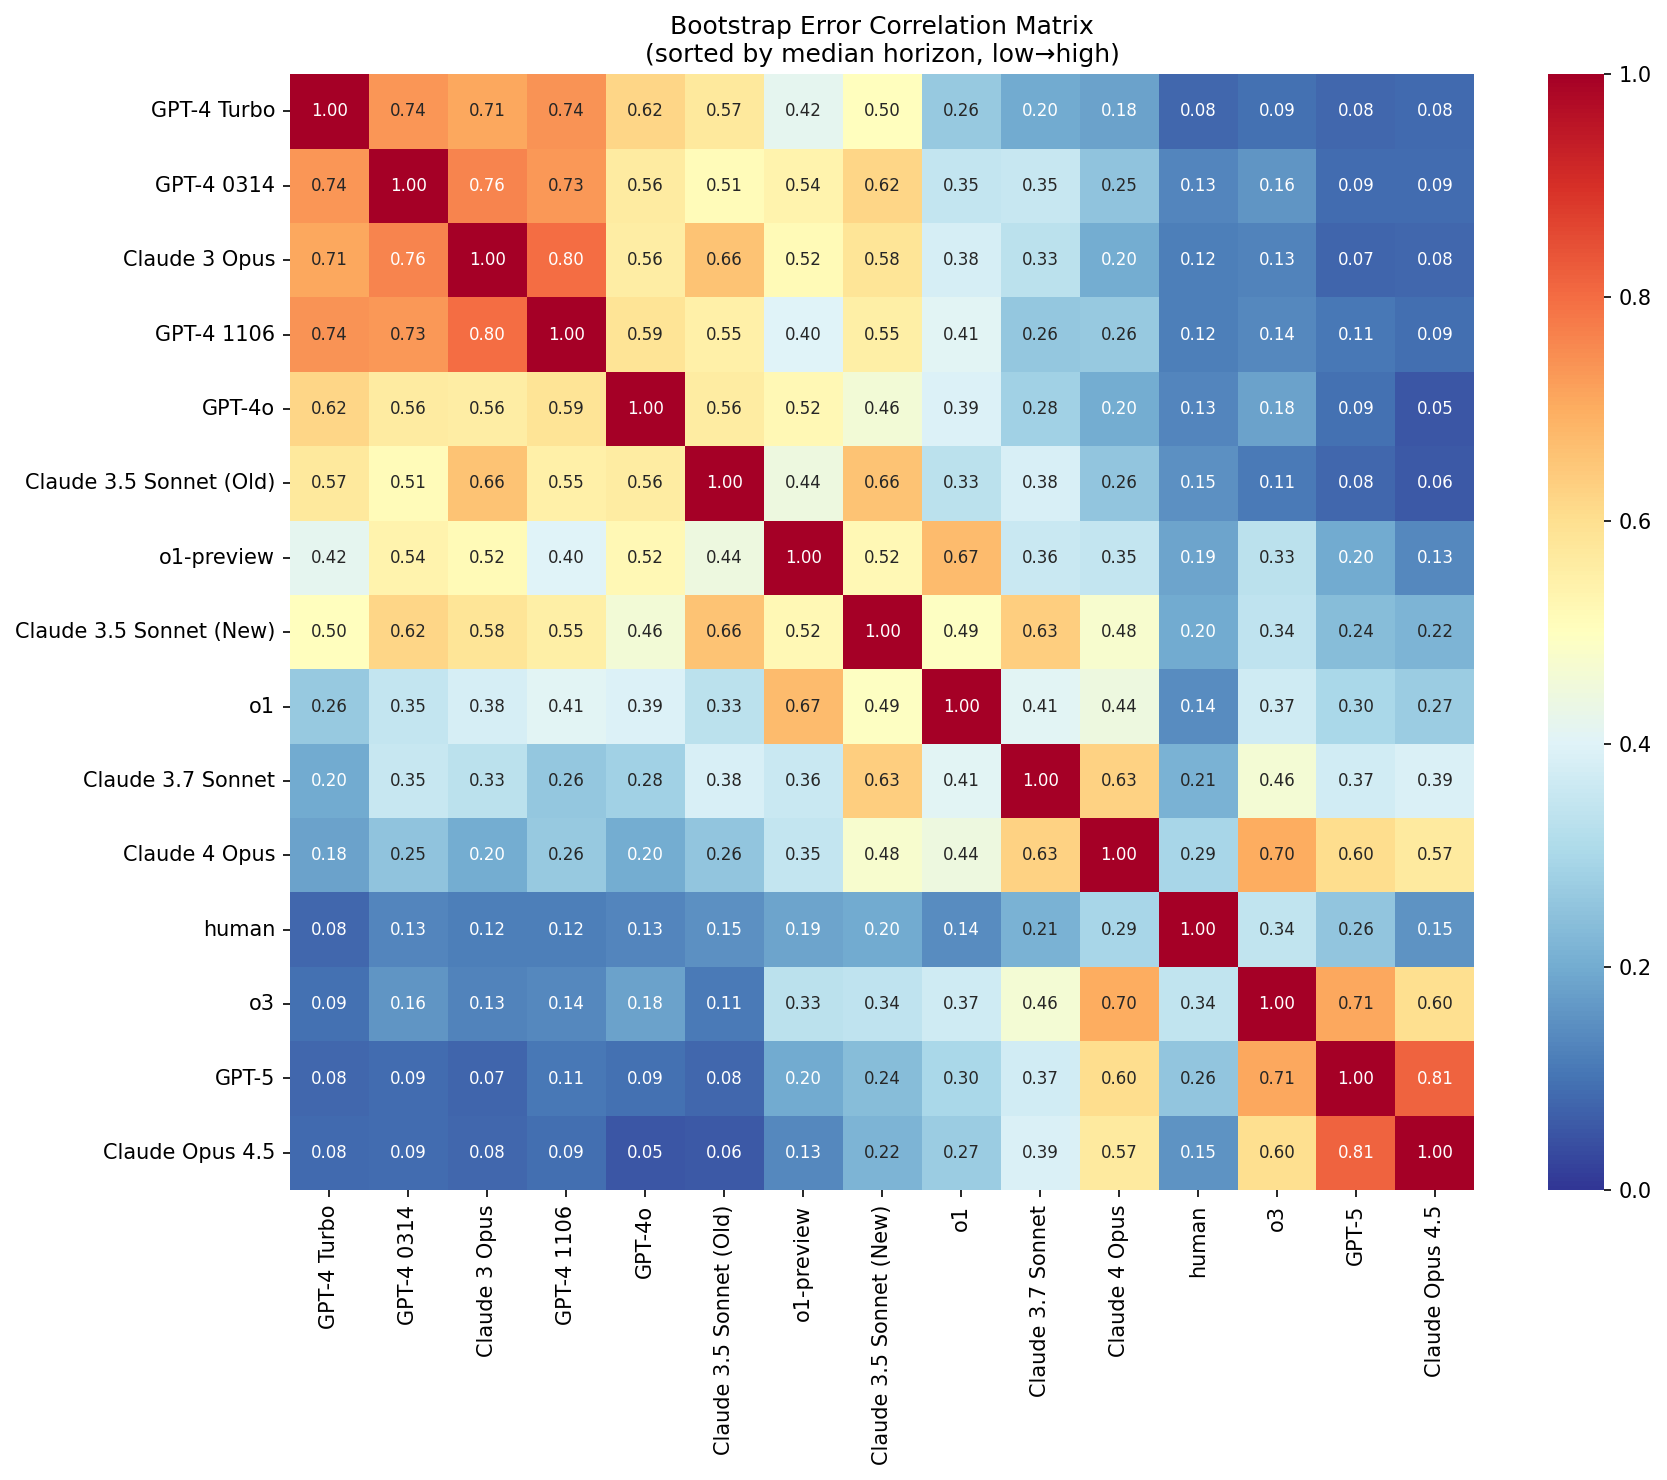
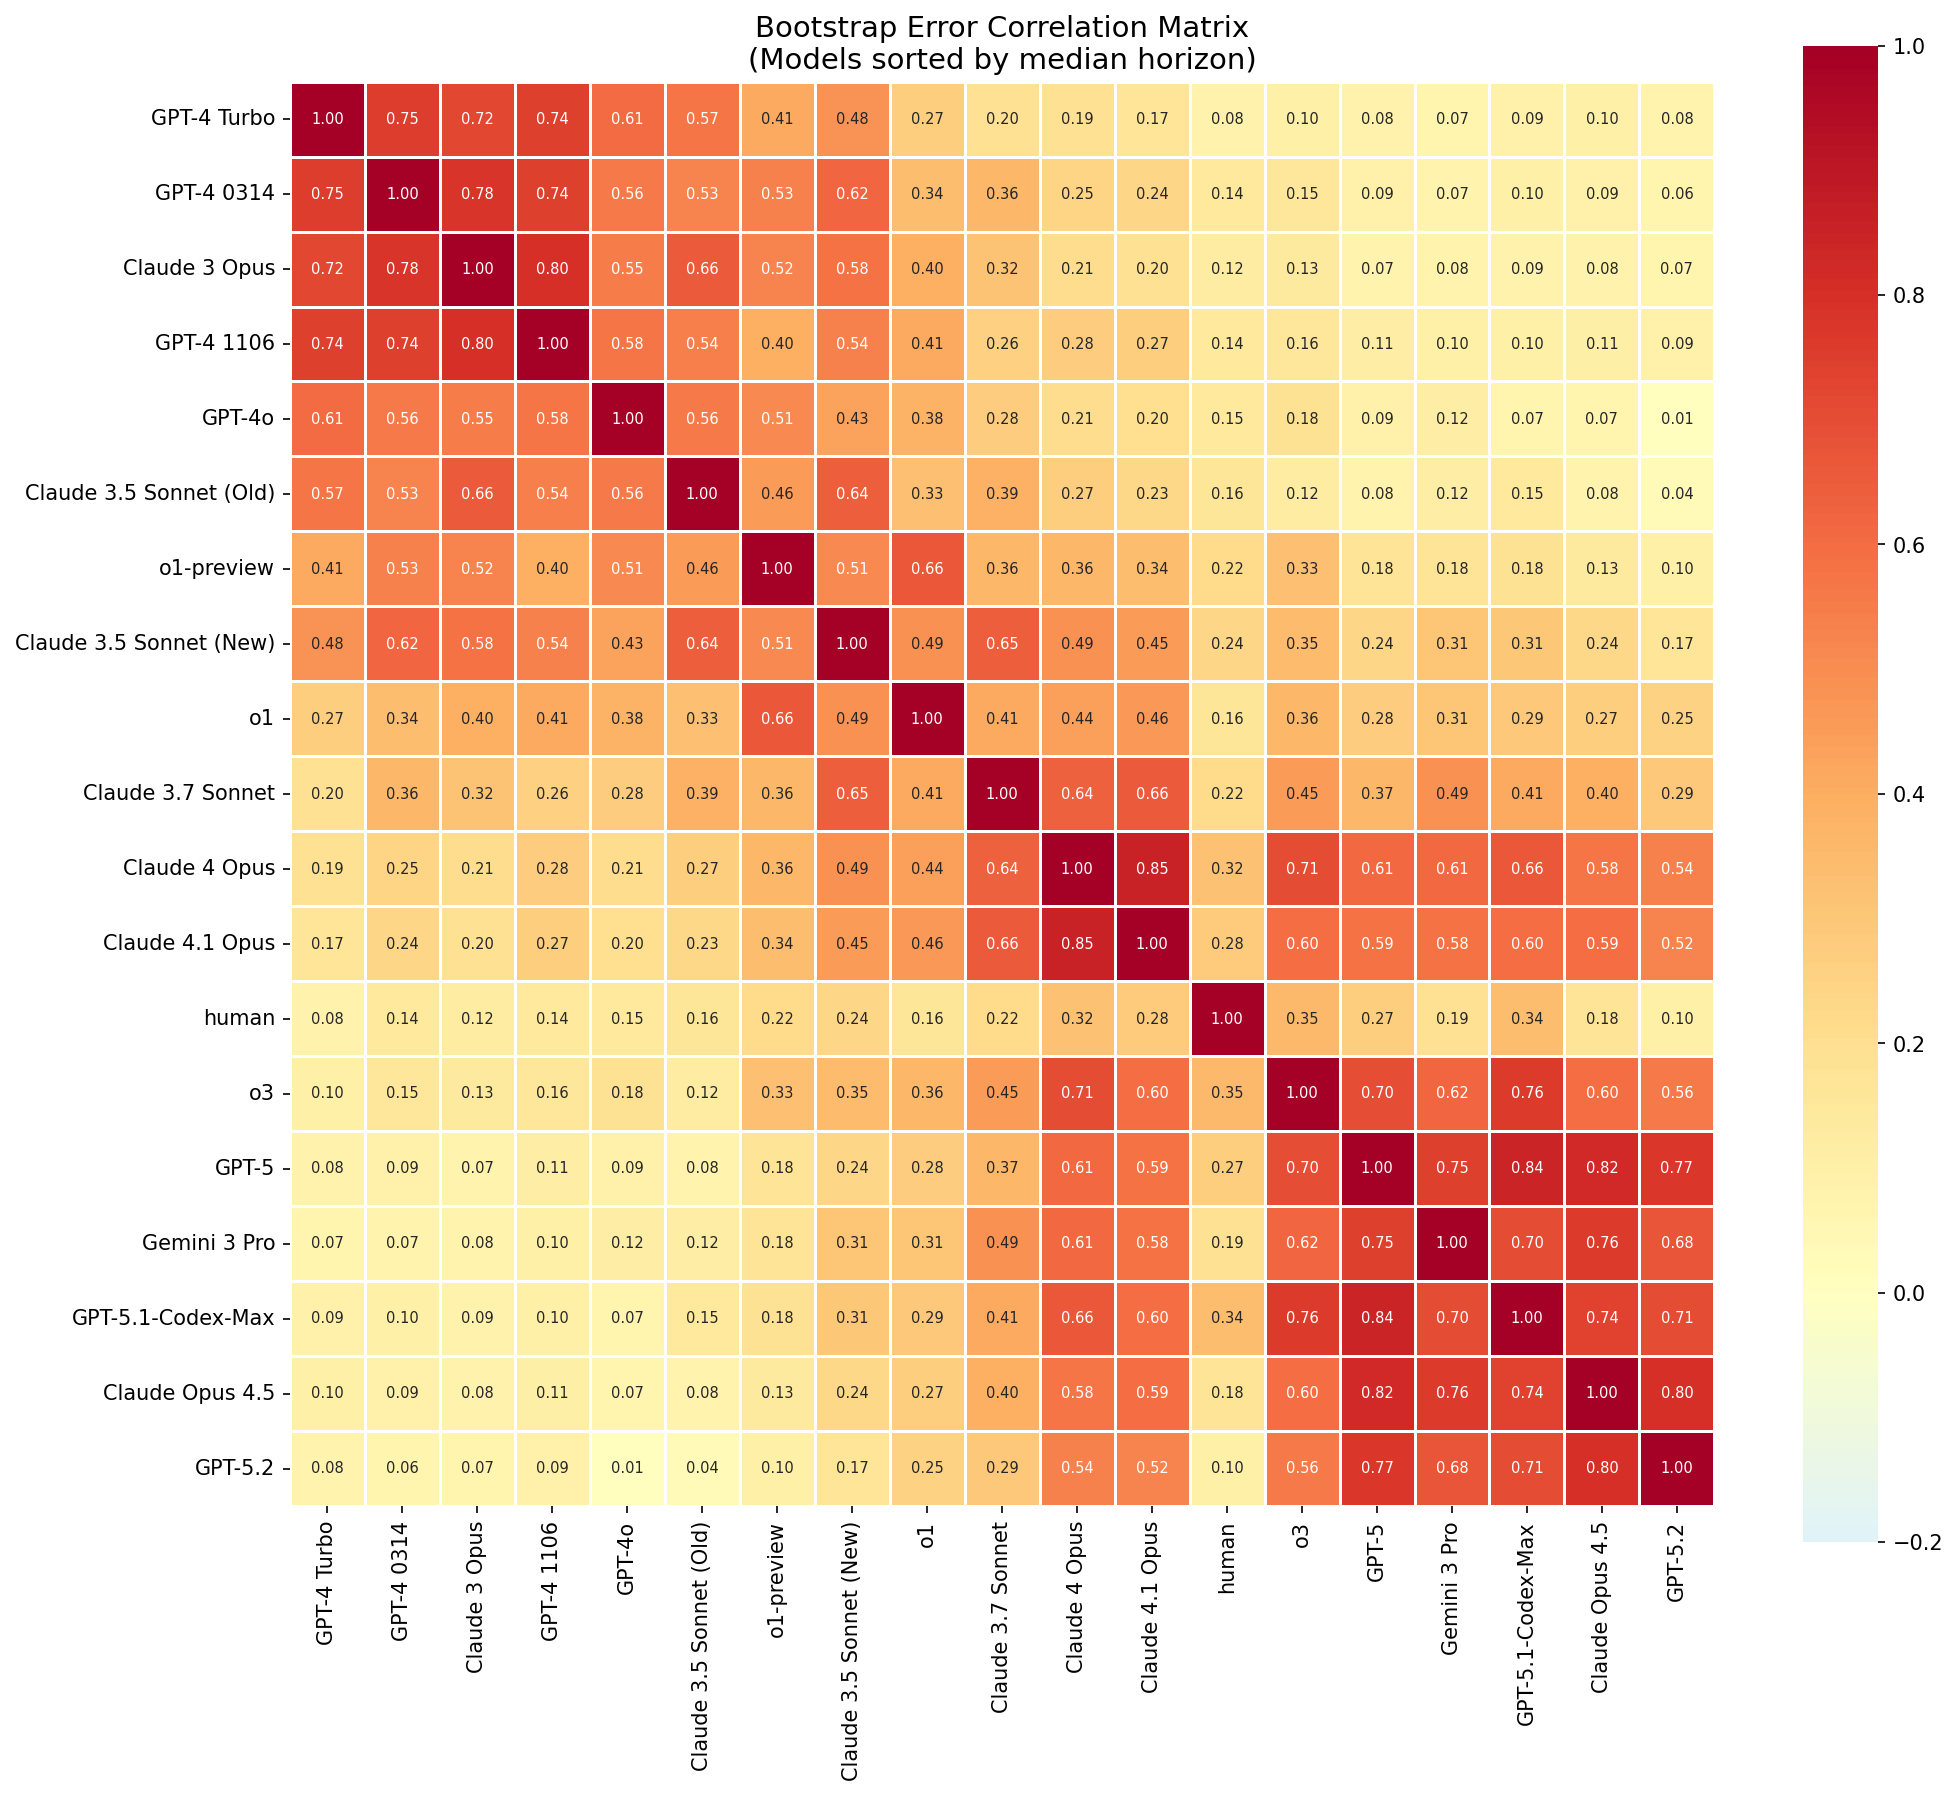
Add plot_correlation_matrix.py script and regenerate correlation plots
- Create dedicated script for generating correlation visualizations from CSVs
- Regenerate correlation_matrix.png and correlation_by_capability.png with 19 models
- Supports --success-percent flag for p50/p80 variants

https://claude.ai/code/session_01MkxSx7Rt85yX4QW53GpeFQ

diff --git a/plot_correlation_matrix.py b/plot_correlation_matrix.py
@@ -1,0 +1,152 @@
+"""
+Generate correlation matrix visualizations from bootstrap samples.
+
+Usage:
+    python plot_correlation_matrix.py [--success-percent 50]
+"""
+
+import argparse
+import numpy as np
+import pandas as pd
+import matplotlib.pyplot as plt
+
+try:
+    import seaborn as sns
+    HAS_SEABORN = True
+except ImportError:
+    HAS_SEABORN = False
+
+
+def load_data(success_percent):
+    """Load correlation matrix and bootstrap samples."""
+    suffix = '' if success_percent == 50 else f'_p{success_percent}'
+
+    corr_df = pd.read_csv(f'correlation_matrix{suffix}.csv', index_col=0)
+    samples_df = pd.read_csv(f'bootstrap_samples{suffix}.csv')
+
+    return corr_df, samples_df
+
+
+def compute_medians(samples_df):
+    """Compute median horizons for each model."""
+    medians = {}
+    for col in samples_df.columns:
+        s = samples_df[col].dropna().values
+        if len(s) > 0:
+            medians[col] = np.median(s)
+    return medians
+
+
+def plot_correlation_matrix(corr_df, output_file='correlation_matrix.png'):
+    """Generate heatmap of correlation matrix."""
+    fig, ax = plt.subplots(figsize=(14, 12))
+
+    if HAS_SEABORN:
+        sns.heatmap(corr_df, annot=True, fmt='.2f', cmap='RdYlBu_r',
+                    center=0, vmin=-0.2, vmax=1.0,
+                    square=True, linewidths=0.5, ax=ax,
+                    annot_kws={'size': 7})
+    else:
+        im = ax.imshow(corr_df.values, cmap='RdYlBu_r', vmin=-0.2, vmax=1.0)
+        ax.set_xticks(range(len(corr_df.columns)))
+        ax.set_yticks(range(len(corr_df.index)))
+        ax.set_xticklabels(corr_df.columns, rotation=45, ha='right')
+        ax.set_yticklabels(corr_df.index)
+        plt.colorbar(im, ax=ax)
+
+        # Add text annotations
+        for i in range(len(corr_df.index)):
+            for j in range(len(corr_df.columns)):
+                ax.text(j, i, f'{corr_df.iloc[i, j]:.2f}',
+                       ha='center', va='center', fontsize=6)
+
+    ax.set_title('Bootstrap Error Correlation Matrix\n(Models sorted by median horizon)', fontsize=14)
+    plt.tight_layout()
+    plt.savefig(output_file, dpi=150, bbox_inches='tight')
+    plt.close()
+    print(f"Saved {output_file}")
+
+
+def plot_correlation_by_capability(corr_df, medians, output_file='correlation_by_capability.png'):
+    """Plot correlation vs capability difference."""
+    # Build pairs with their correlation and horizon difference
+    models = list(corr_df.index)
+    pairs = []
+
+    for i, m1 in enumerate(models):
+        for j, m2 in enumerate(models):
+            if i >= j:
+                continue
+
+            # Get medians - handle name variations
+            med1 = medians.get(m1) or medians.get(f"{m1} (Inspect)")
+            med2 = medians.get(m2) or medians.get(f"{m2} (Inspect)")
+
+            if med1 is None or med2 is None:
+                continue
+
+            log_diff = abs(np.log10(med1) - np.log10(med2))
+            corr = corr_df.loc[m1, m2]
+            pairs.append((m1, m2, corr, log_diff))
+
+    if not pairs:
+        print("No valid pairs found for capability plot")
+        return
+
+    correlations = [p[2] for p in pairs]
+    log_diffs = [p[3] for p in pairs]
+
+    # Fit linear trend
+    slope, intercept = np.polyfit(log_diffs, correlations, 1)
+    r_val = np.corrcoef(log_diffs, correlations)[0, 1]
+
+    fig, ax = plt.subplots(figsize=(10, 7))
+    ax.scatter(log_diffs, correlations, alpha=0.6, s=50)
+
+    # Trend line
+    x_line = np.linspace(0, max(log_diffs), 100)
+    y_line = slope * x_line + intercept
+    ax.plot(x_line, y_line, 'r--', linewidth=2,
+            label=f'Linear fit: r={r_val:.2f}')
+
+    ax.set_xlabel('Log₁₀ Horizon Difference (capability gap)', fontsize=12)
+    ax.set_ylabel('Bootstrap Error Correlation', fontsize=12)
+    ax.set_title('Correlation Structure: Similar Capabilities → Correlated Errors', fontsize=14)
+    ax.legend()
+    ax.grid(True, alpha=0.3)
+    ax.set_ylim(-0.1, 1.0)
+
+    plt.tight_layout()
+    plt.savefig(output_file, dpi=150, bbox_inches='tight')
+    plt.close()
+    print(f"Saved {output_file}")
+
+    # Print summary stats
+    print(f"\nCorrelation vs capability gap: r = {r_val:.3f}")
+    print(f"Mean correlation: {np.mean(correlations):.3f}")
+    print(f"Correlation range: [{np.min(correlations):.3f}, {np.max(correlations):.3f}]")
+
+
+def main():
+    parser = argparse.ArgumentParser(description='Plot correlation matrix visualizations')
+    parser.add_argument('--success-percent', type=int, default=50,
+                        help='Target success percentage (default: 50)')
+    args = parser.parse_args()
+
+    suffix = '' if args.success_percent == 50 else f'_p{args.success_percent}'
+
+    print(f"Loading data for p{args.success_percent}...")
+    corr_df, samples_df = load_data(args.success_percent)
+    medians = compute_medians(samples_df)
+
+    print(f"Found {len(corr_df)} models in correlation matrix")
+
+    # Generate plots
+    plot_correlation_matrix(corr_df, f'correlation_matrix{suffix}.png')
+    plot_correlation_by_capability(corr_df, medians, f'correlation_by_capability{suffix}.png')
+
+    print("\nDone!")
+
+
+if __name__ == '__main__':
+    main()
